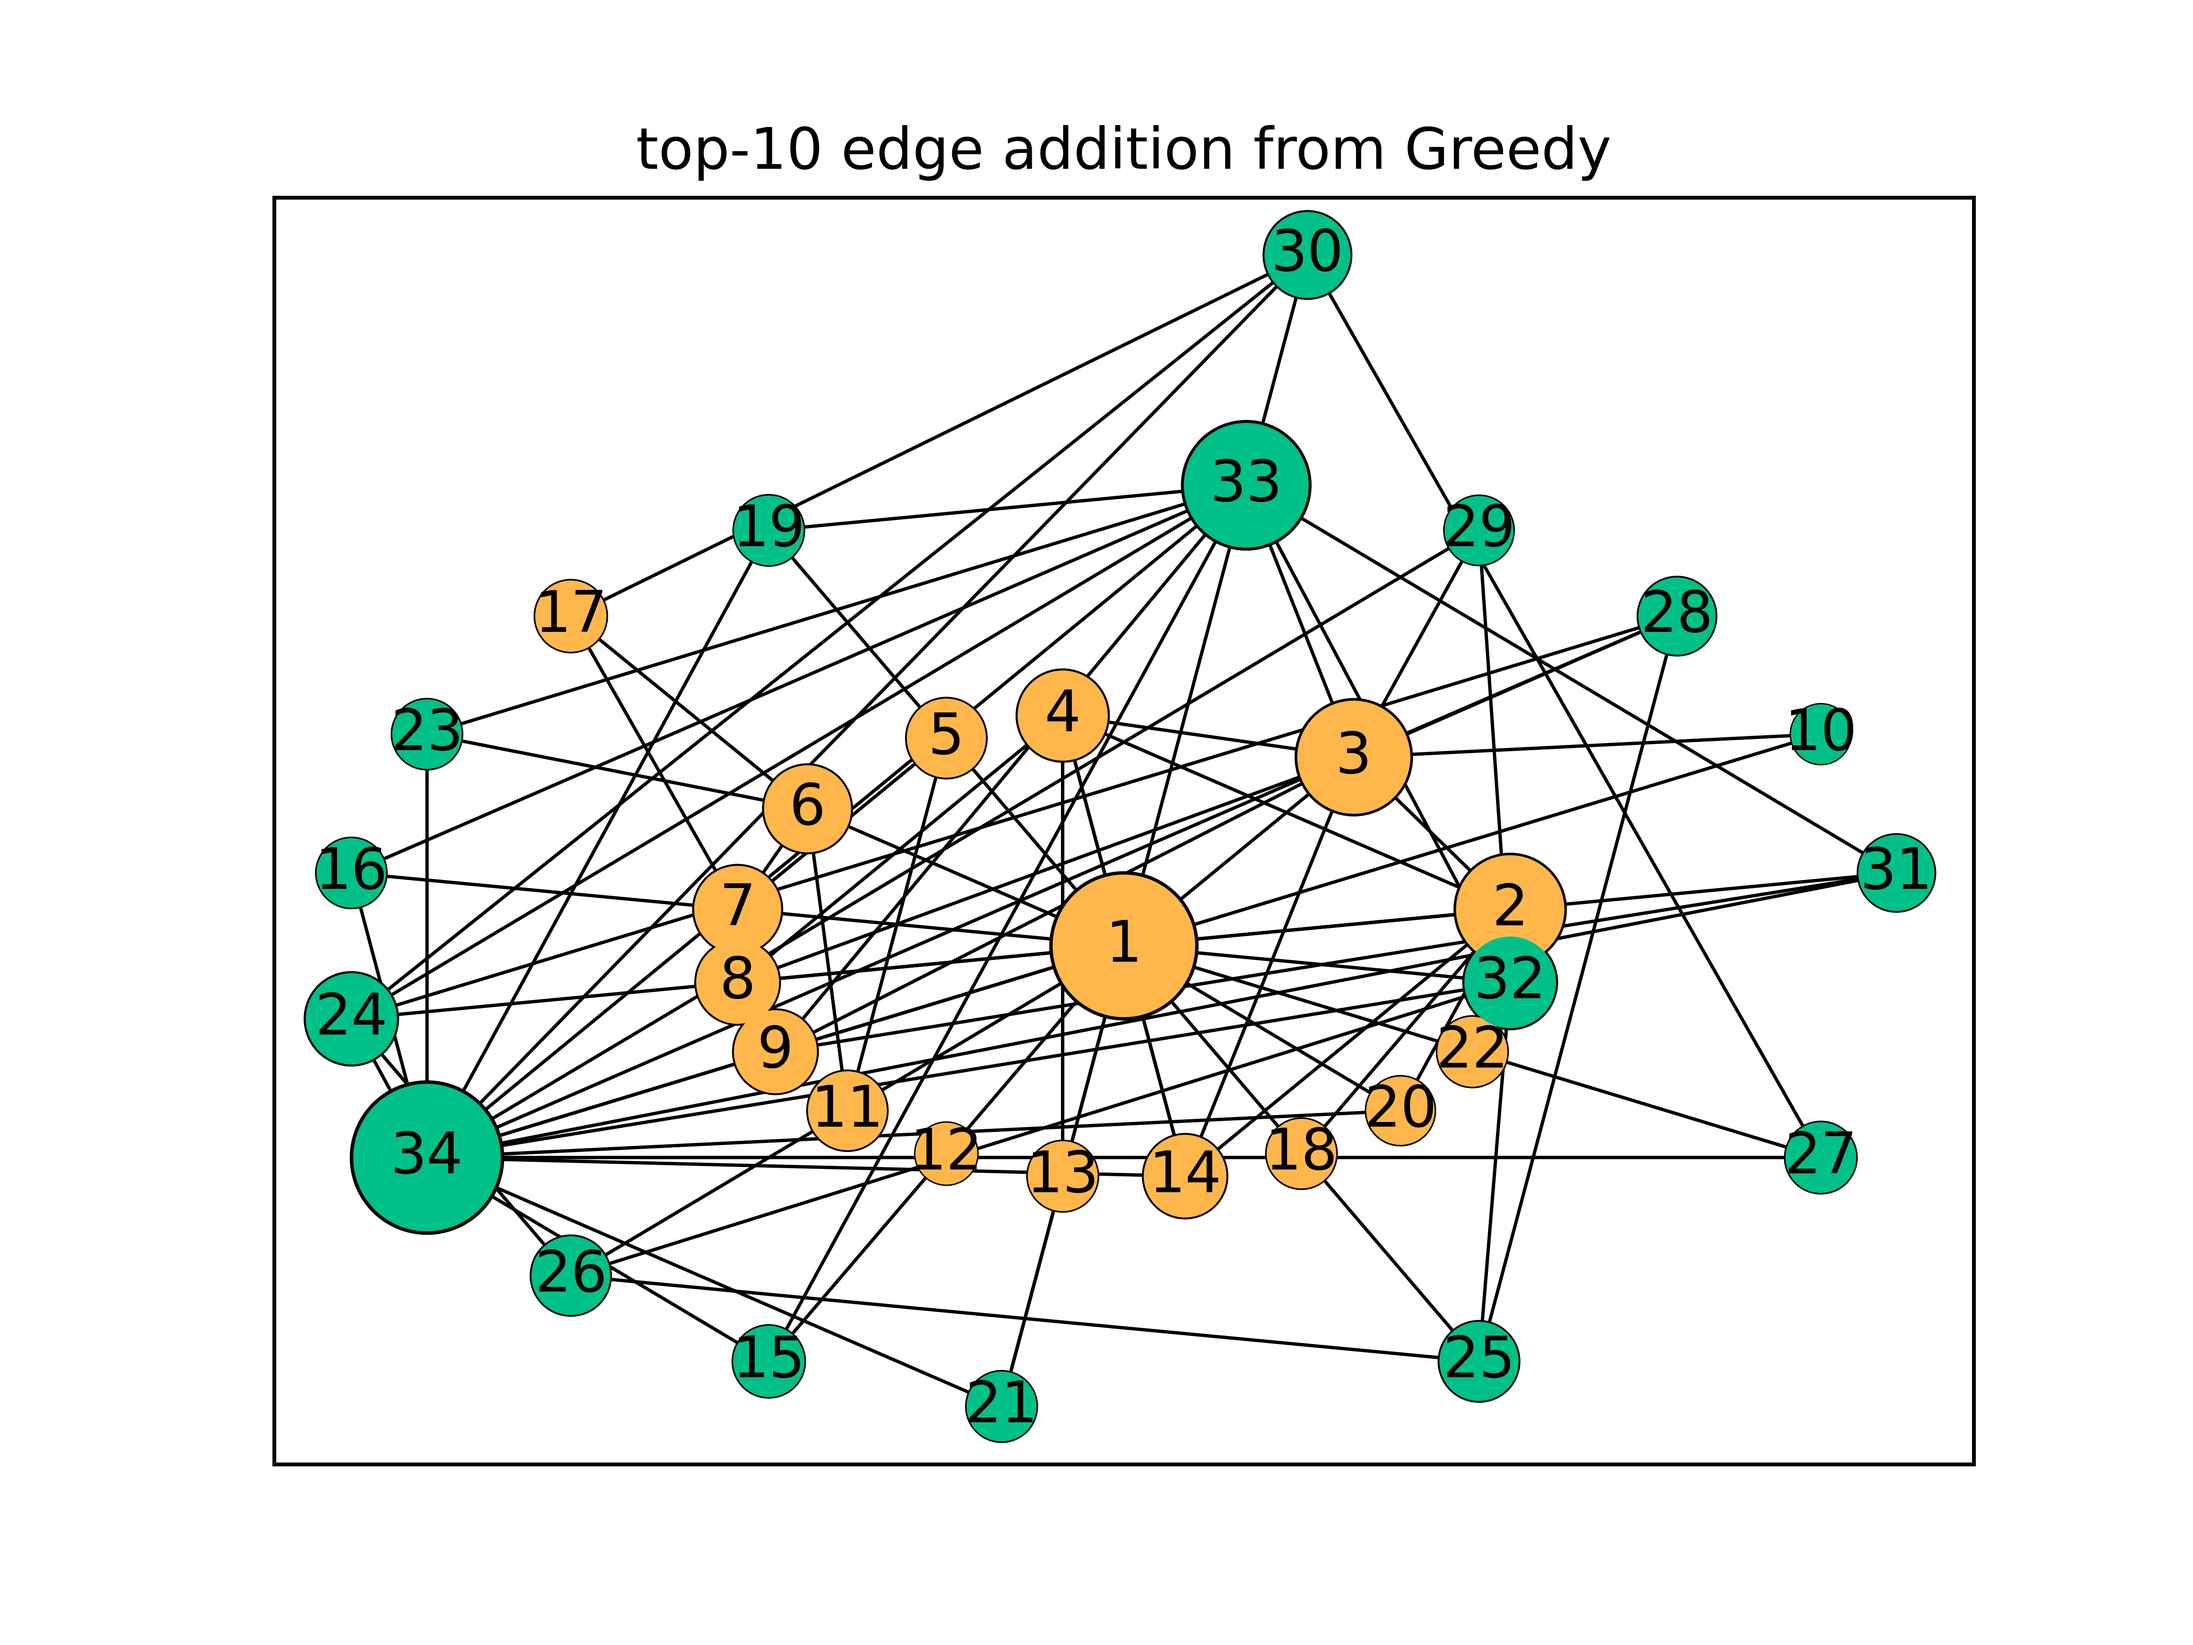
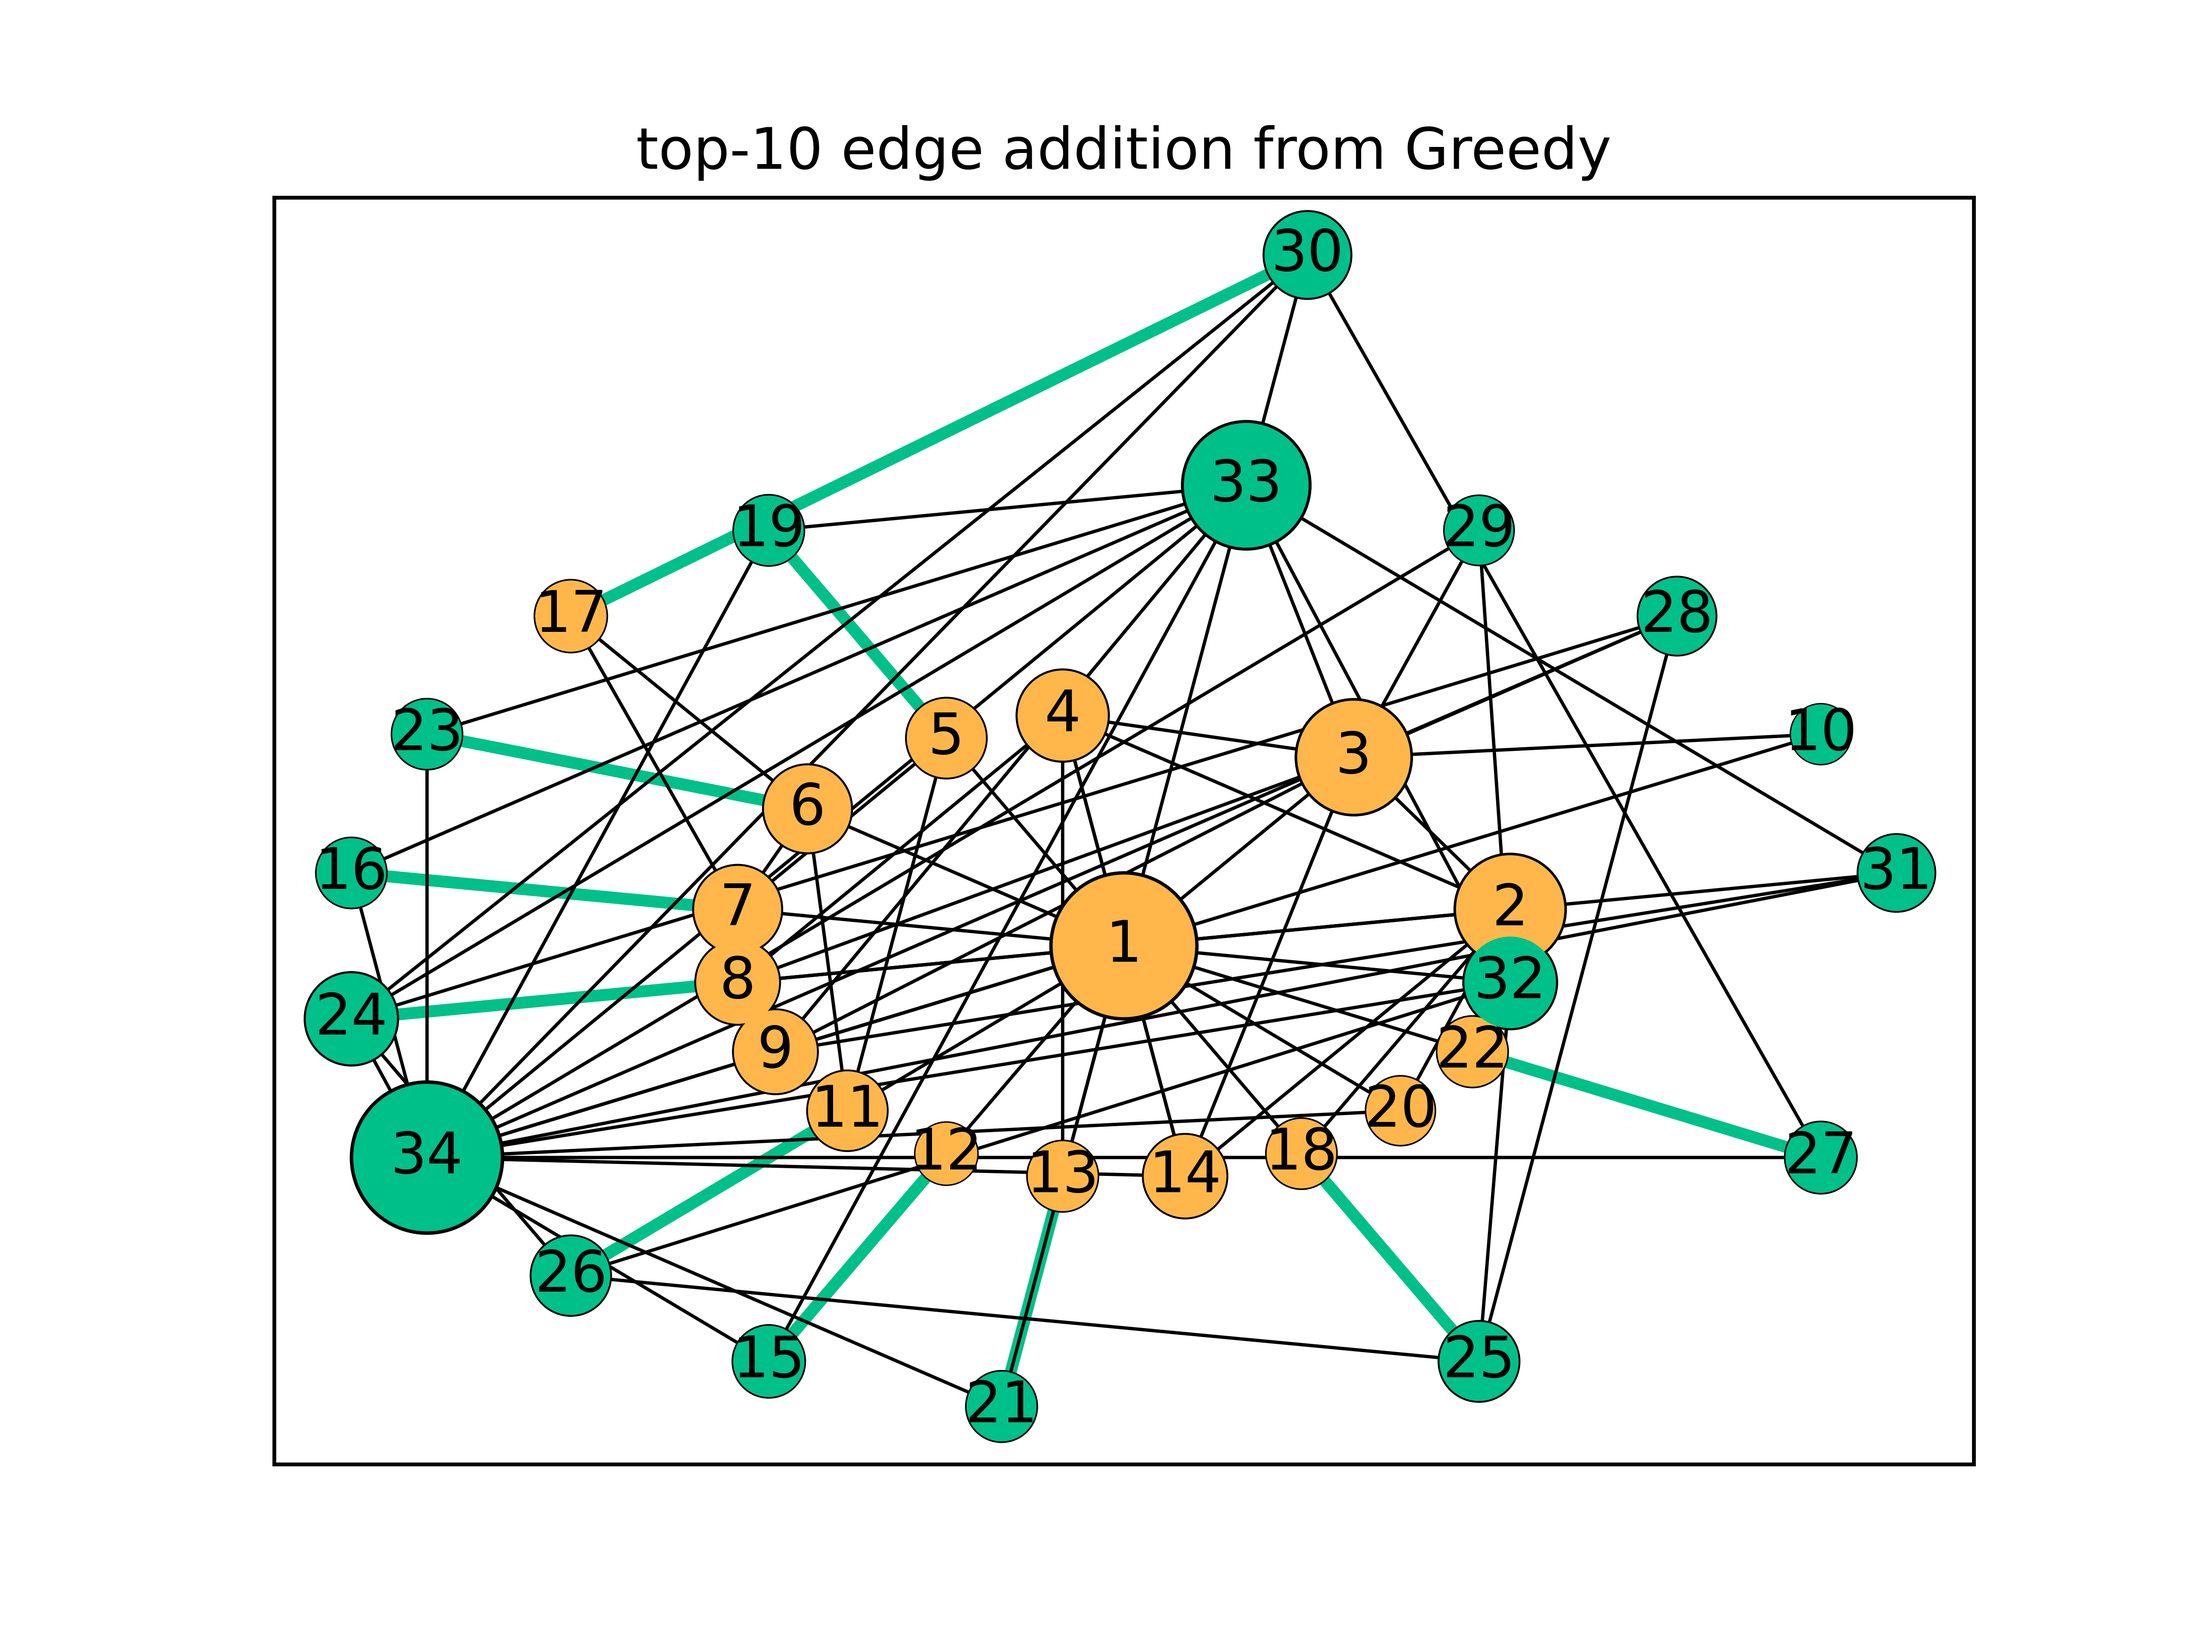
edge color now works corectly, tuple was not checked properly

diff --git a/project/social_polarization/__visualize__.py b/project/social_polarization/__visualize__.py
@@ -33,32 +33,30 @@ def visualize_edge(g, edge_list, title, img_name, mode):
         else:
             node_colors.append('#ffb74b')
 
-    # create edges to add
+    # create edges as a tuple
     for i in range(len(edge_list)):
         edge_splitted = edge_list[i].split(",")
         tuples.append((int(edge_splitted[0]), int(edge_splitted[1])))
 
+    tuples = [tuple(sorted(tup)) for tup in tuples]
     g.add_edges_from(tuples)
 
+    print(g.edges)
+    print(tuples)
     # keep same layout
     # pos = nx.spring_layout(g_top, scale=15)
     pos = nx.nx_agraph.graphviz_layout(g, prog='twopi')
-    if mode:
-        for edge in g.edges+tuples:
-            if edge in tuples:
+
+    for edge in g.edges:
+        if edge in tuples:
+            if mode:
                 edge_colors.append('#00c08a')
-                edge_weights.append(2.5)
             else:
-                edge_colors.append('black')
-                edge_weights.append(0.7)
-    else:
-        for edge in g.edges:
-            if edge in tuples:
                 edge_colors.append('#ff5255')
-                edge_weights.append(2.5)
-            else:
-                edge_colors.append('black')
-                edge_weights.append(0.7)
+            edge_weights.append(2.5)
+        else:
+            edge_colors.append('black')
+            edge_weights.append(0.7)
 
     # bigger nodes -> more central
     pr = nx.pagerank(g)
